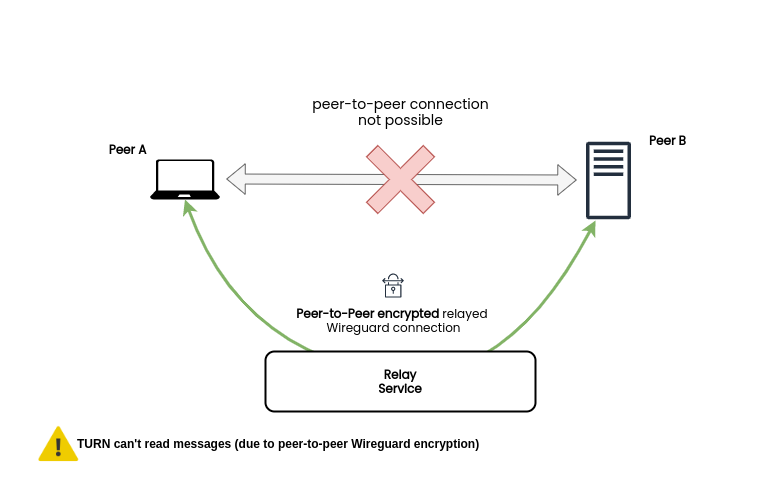
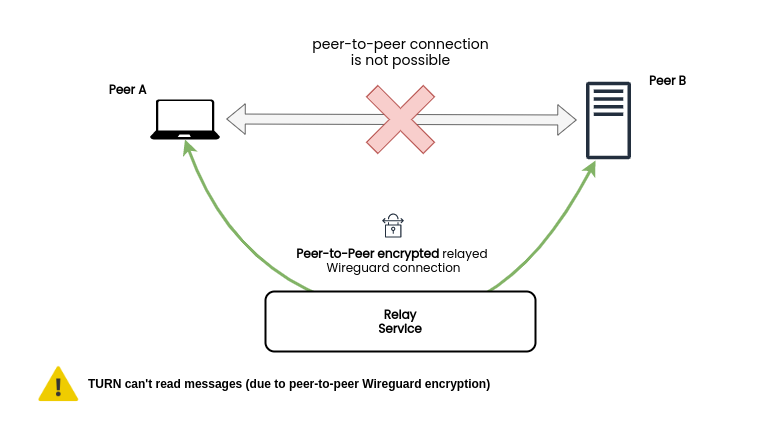
chore: add TURN doc

Changed region(s): [[0.1229, 0.1853, 0.8912, 0.8646], [0.0307, 0.8646, 0.6453, 0.9572], [0.3995, 0.0926, 0.6453, 0.1544]]

diff --git a/docs/overview/acrchitecture.md b/docs/overview/acrchitecture.md
@@ -81,9 +81,27 @@ It does not store any data and no traffic passes through it.
 
 The only Signal's responsibility is:
 * **Serve as a notification mechanism for peers.** Before a connection can be established, peers need to find each other and exchange the most suitable connection candidates.
-  This is done through Signal. After a connection has been established, Signal steps out. The messages sent through Signal are peer-to-peer encrypted so that Signal can't decrypt them.
-  
-Wiretsutee Signal is very similar to the signaling servers used in [WebRTC](https://developer.mozilla.org/en-US/docs/Web/API/WebRTC_API/Signaling_and_video_calling#the_signaling_server).
+  This is done through Signal. After a connection has been established, Signal steps out. Messages that are sent through Signal are peer-to-peer encrypted so that Signal can't decrypt them.
 
+<p align="center">
+    <img src="/img/architecture/signal.png" alt="signal-dia"/>
+</p>
+
+Wiretsutee Signal is very similar to the signaling servers used in [WebRTC](https://developer.mozilla.org/en-US/docs/Web/API/WebRTC_API/Signaling_and_video_calling#the_signaling_server).
 It runs in the cloud Wiretrustee-managed and can be self-hosted.
 
+### Relay Service
+
+The Relay service is a [TURN server](https://webrtc.org/getting-started/turn-server) in WebRTC terminology.
+In fact, we use an open-source implementation called [Coturn](https://github.com/coturn/coturn).
+The purpose of this service is to be a "plan B" and relay traffic between peers in case a peer-to-peer connection isn't possible.
+
+Similarly to the Signal Service, traffic that flows through the Relay can't be decrypted due to the same Wireguard peer-to-peer encryption.
+
+<p align="center">
+    <img src="/img/architecture/relay.png" alt="relay-dia"/>
+</p>
+
+It runs in the cloud or can be self-hosted.
+
+### STUN (NAT Traversal)
